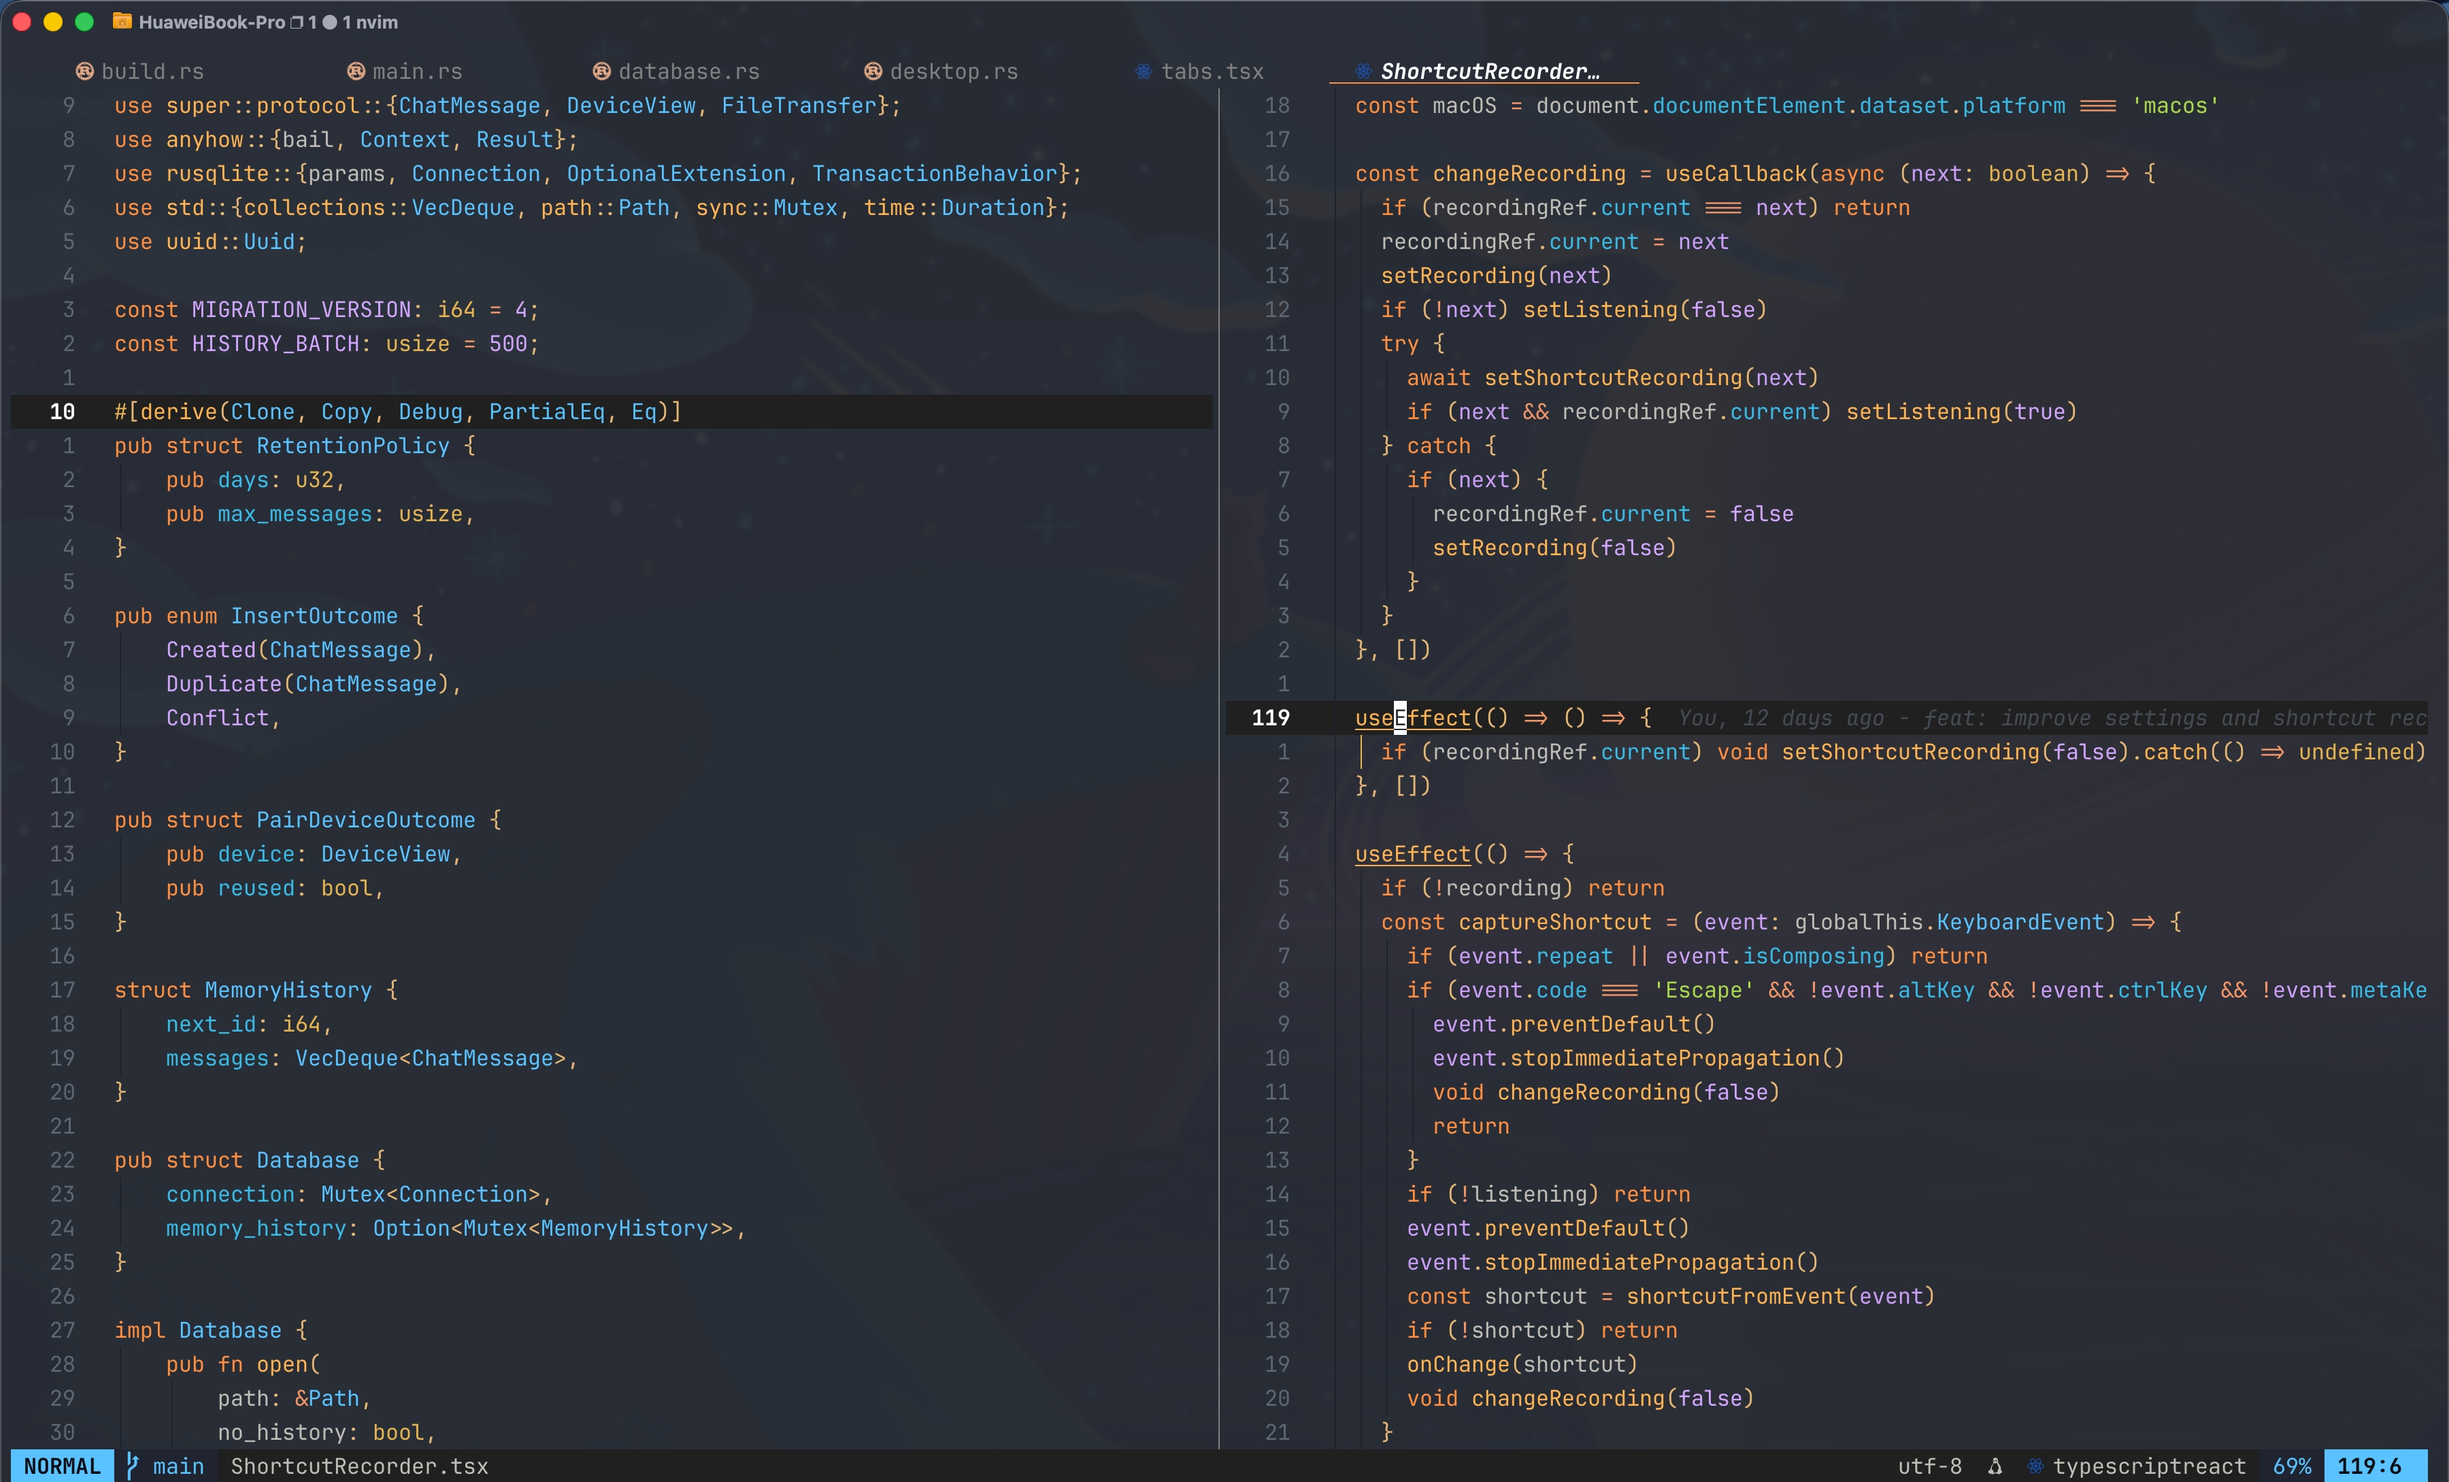
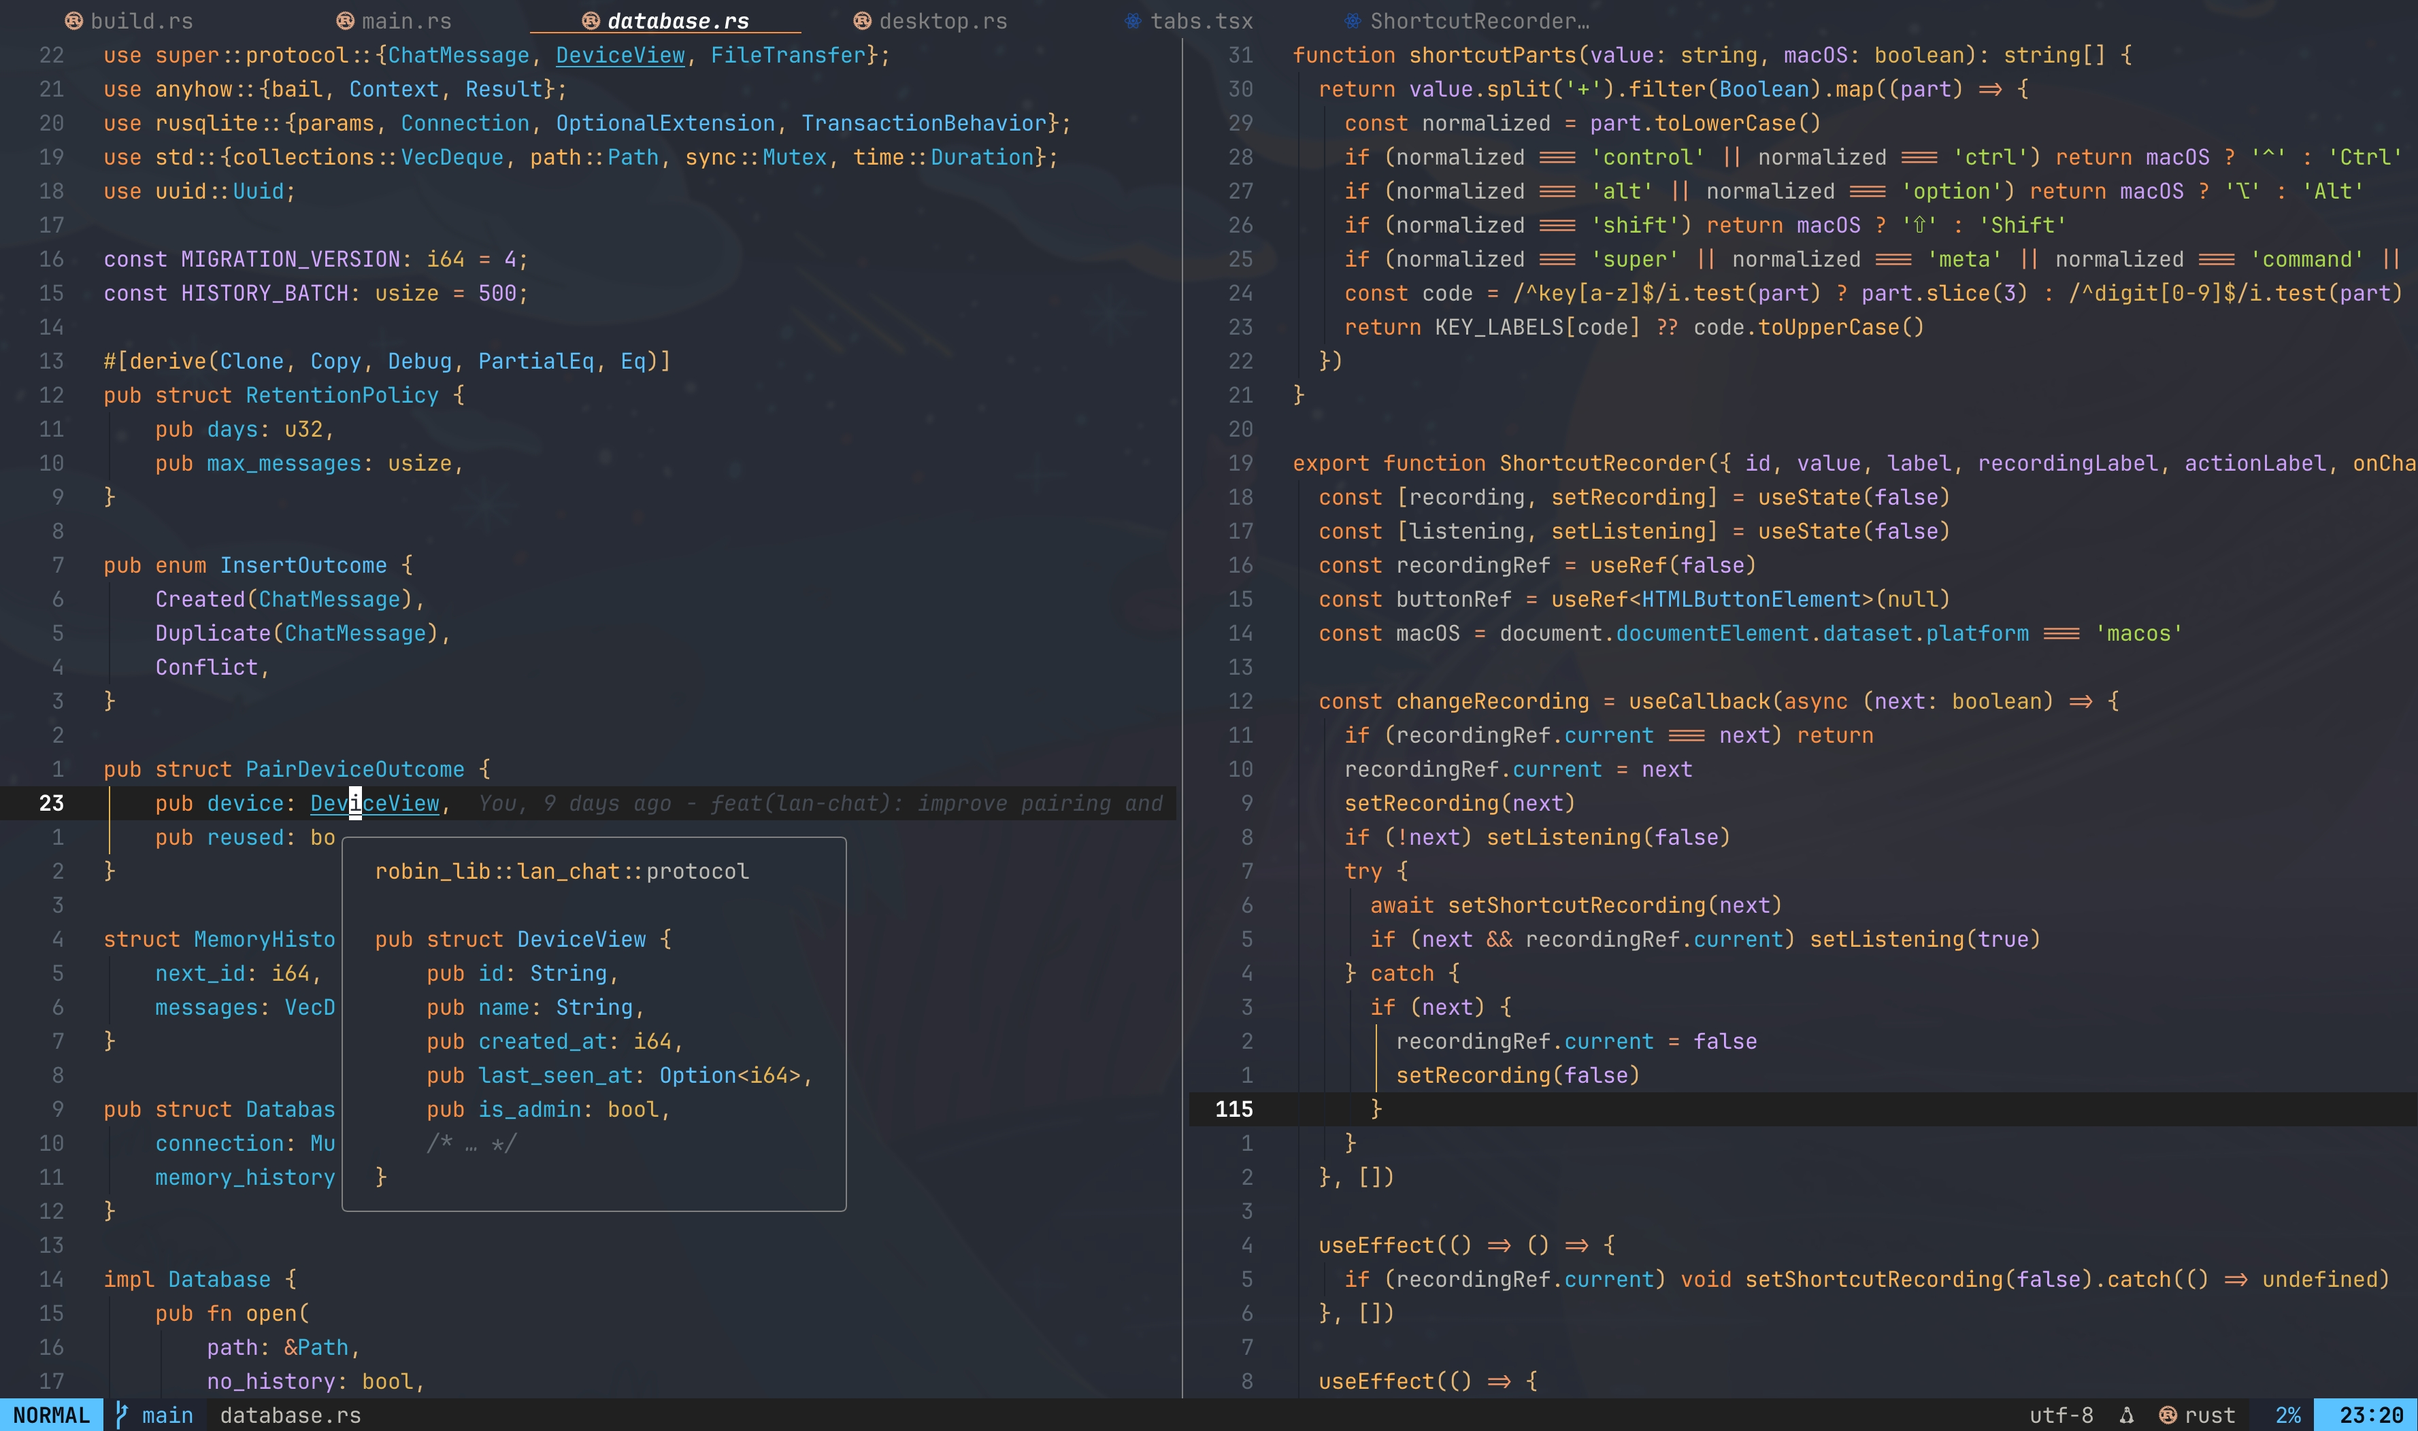
docs: update screenshot and remove Claude guide

diff --git a/README.zh-CN.md b/README.zh-CN.md
@@ -4,6 +4,8 @@
 
 一个基于 Lua 构建的现代 Neovim 配置，具备 LSP 支持、自动补全、模糊查找和透明美观的 UI。此配置旨在提供强大的 IDE 般的体验，同时保持 Neovim 的简洁性和速度。
 
+![Neovim 配置截图](./assets/screenshot.jpeg)
+
 ## ✨ 特性
 
 - **LSP 集成**：完整的语言服务器协议支持，包含诊断、代码操作和符号引用高亮
